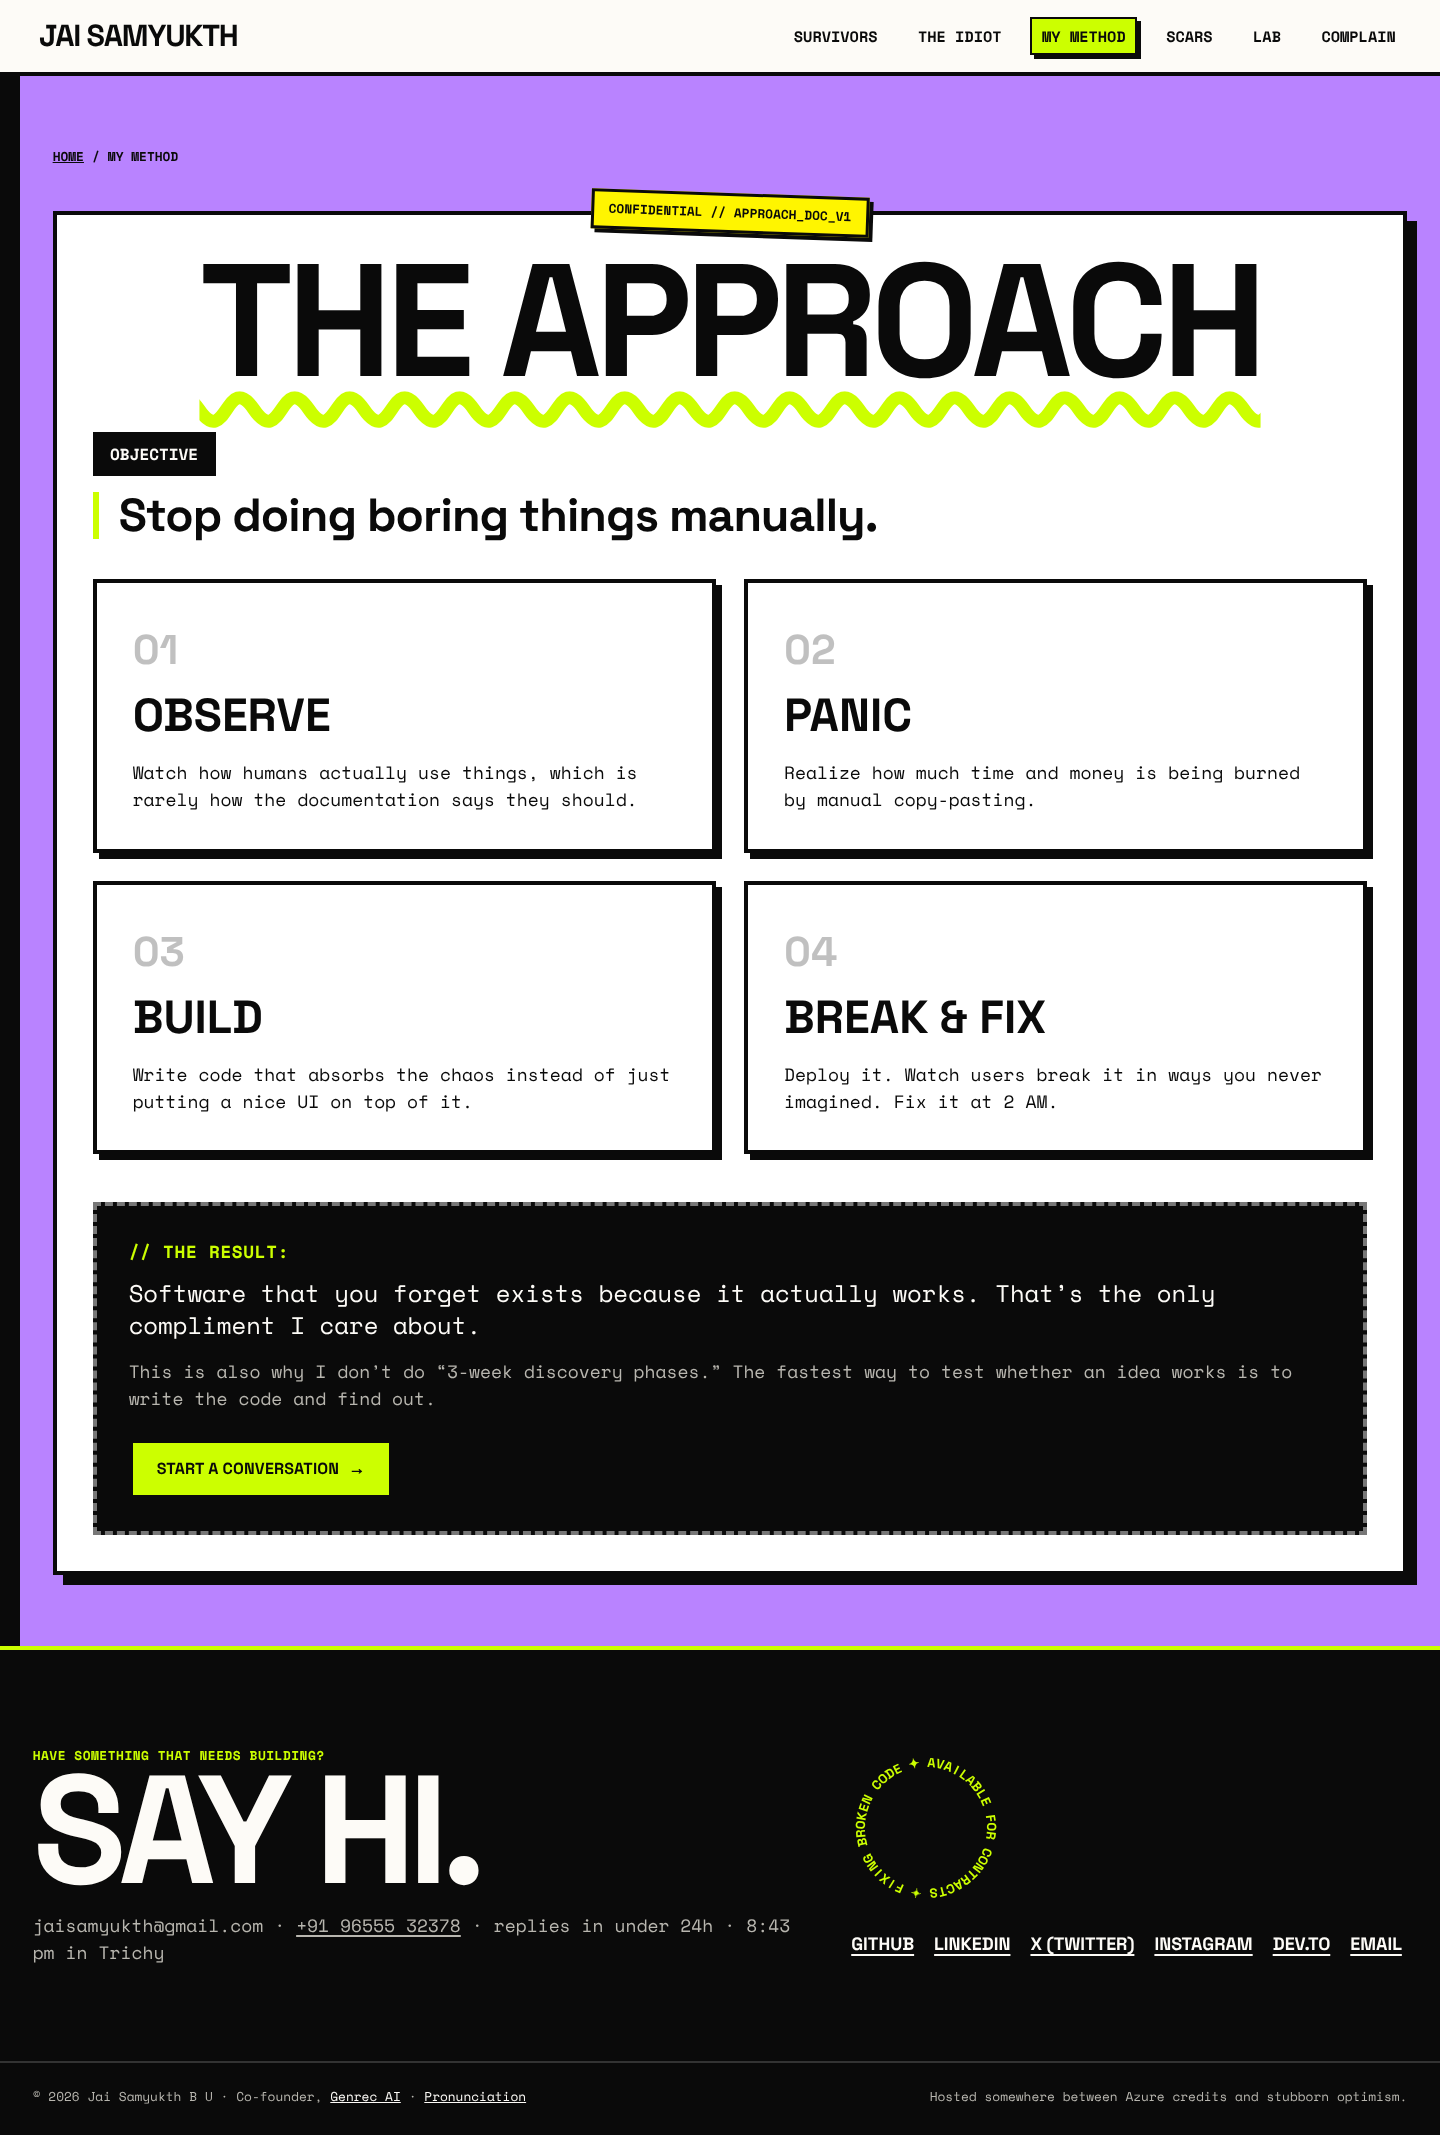
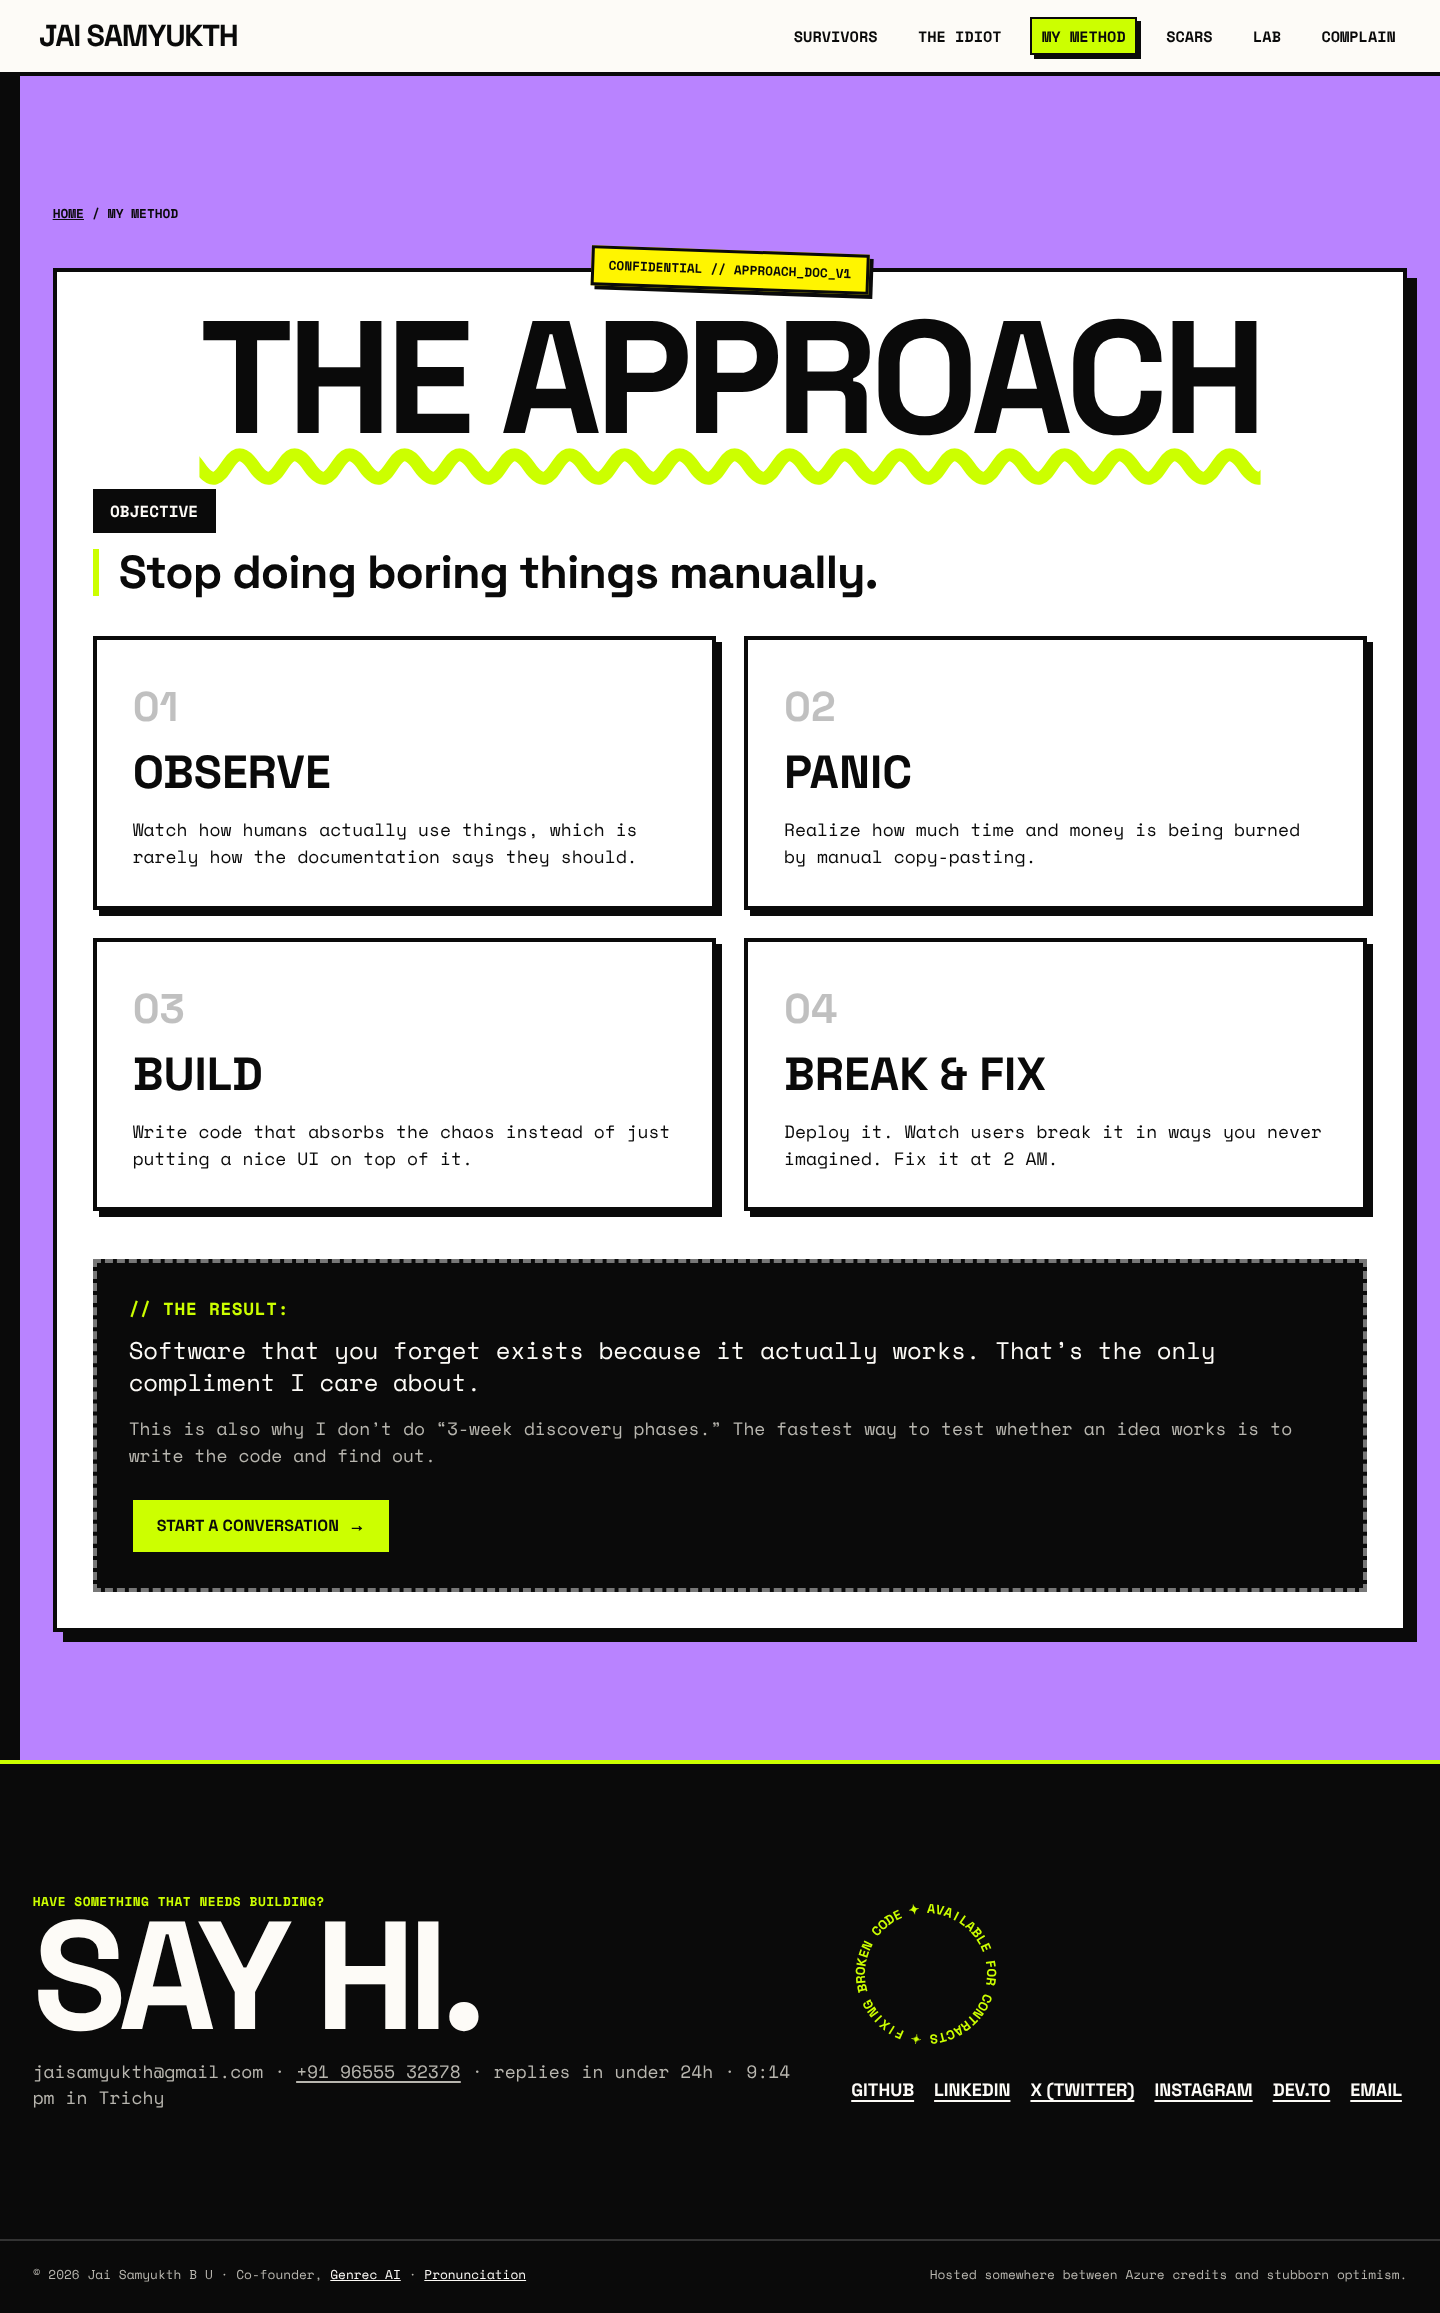
More breathing room across the site
Sections, page headers, the hero and card grids get generous spacing
again (and more than before). The home ticker is one row instead of
two, the manifesto sits in a narrower column, and the About name no
longer slides under the photo.

Claude-Session: https://claude.ai/code/session_01NPRyByUiU6set8yqXnPwka

diff --git a/src/styles/site.css b/src/styles/site.css
@@ -33,8 +33,8 @@ html { scrollbar-color: var(--yellow) var(--ink); }
 
 /* ---------- layout ---------- */
 .wrap { padding-inline: var(--gutter); max-width: 96rem; margin-inline: auto; }
-.section { padding-block: calc(var(--u) * 5); }
-.section--tight { padding-block: calc(var(--u) * 4); }
+.section { padding-block: calc(var(--u) * 9); }
+.section--tight { padding-block: calc(var(--u) * 7); }
 .night { background: var(--ink); color: var(--paper); }
 .bb { border-bottom: var(--b) solid var(--ink); }
 .bt { border-top: var(--b) solid var(--ink); }
@@ -114,13 +114,13 @@ html.menu-open { overflow: hidden; }
 /* ---------- hero ---------- */
 .hero { position: relative; overflow: clip; border-bottom: var(--b) solid var(--ink); }
 .hero__bg { position: absolute; inset: 0; z-index: 0; opacity: 0.55; pointer-events: auto; }
-.hero__grid { position: relative; z-index: 1; display: grid; grid-template-columns: minmax(0, 7fr) minmax(0, 5fr); gap: clamp(2rem, 5vw, 5rem); align-items: center; padding-block: clamp(2rem, 4vw, 3.5rem) clamp(1.75rem, 3vw, 2.5rem); pointer-events: none; }
+.hero__grid { position: relative; z-index: 1; display: grid; grid-template-columns: minmax(0, 7fr) minmax(0, 5fr); gap: clamp(2rem, 5vw, 5rem); align-items: center; padding-block: clamp(3.5rem, 7vw, 7rem) clamp(4rem, 7vw, 7rem); pointer-events: none; }
 .hero__grid > * { pointer-events: auto; }
 .hero__title { font-size: clamp(2.4rem, 1rem + 4.6vw, 5.2rem); line-height: 1.02; font-weight: 700; text-transform: uppercase; letter-spacing: -0.035em; margin-top: 1.5rem; }
 .hero__title .hl--yellow { margin-top: 0.15em; }
-.hero__hi { margin-top: 1.25rem; max-width: 40rem; font-family: var(--f-mono); font-size: var(--t-m); line-height: 1.6; }
-.hero__actions { display: flex; flex-wrap: wrap; gap: 1rem; margin-top: 1.75rem; }
-.hero__status { margin-top: 1.25rem; font-family: var(--f-mono); font-size: var(--t-xs); color: var(--muted); }
+.hero__hi { margin-top: 2rem; max-width: 40rem; font-family: var(--f-mono); font-size: var(--t-m); line-height: 1.6; }
+.hero__actions { display: flex; flex-wrap: wrap; gap: 1.25rem; margin-top: 2.75rem; }
+.hero__status { margin-top: 2rem; font-family: var(--f-mono); font-size: var(--t-xs); color: var(--muted); }
 .hero__status b { color: var(--blue); }
 .hero__photo { position: relative; justify-self: center; width: min(100%, 30rem); }
 .hero__photo-back { position: absolute; inset: 0; translate: 14px -14px; background: var(--acid); border: var(--b) solid var(--ink); z-index: 0; rotate: 3deg; }
@@ -195,7 +195,7 @@ html.menu-open { overflow: hidden; }
 @media (max-width: 900px) { .footer__top { grid-template-columns: 1fr; } }
 
 /* ---------- page heads ---------- */
-.phead { padding-block: clamp(2.25rem, 5vw, 4.25rem) clamp(1.75rem, 3vw, 2.75rem); border-bottom: var(--b) solid var(--ink); }
+.phead { padding-block: clamp(4rem, 9vw, 8rem) clamp(3rem, 6vw, 5rem); border-bottom: var(--b) solid var(--ink); }
 .phead__tag { margin-bottom: 1.25rem; }
 .phead__lede { margin-top: 1.5rem; max-width: 46rem; font-family: var(--f-mono); font-size: var(--t-m); }
 .crumbs { display: flex; gap: 0.5rem; font-family: var(--f-mono); font-size: var(--t-xs); font-weight: 700; text-transform: uppercase; margin-bottom: 1.5rem; }
@@ -296,7 +296,7 @@ button.chip:focus-visible, a.chip:focus-visible { background: var(--acid); color
 .syll .t-xl { display: block; margin-block: 0.5rem; }
 .about-say { min-width: 0; }
 @media (max-width: 767px) { .syll { grid-template-columns: 1fr; } .about-say { grid-column: 1 / -1 !important; } }
-.pagehead { padding-block: clamp(2.25rem, 5vw, 4.25rem) 1.75rem; }
+.pagehead { padding-block: clamp(4rem, 9vw, 8rem) 3rem; }
 .pagehead__lede { margin-top: 1.5rem; max-width: 46rem; font-family: var(--f-mono); font-size: var(--t-m); }
 
 /* ---------- ui-ux-pro-max pre-delivery fixes ---------- */
@@ -373,3 +373,23 @@ a, button, summary, [role='button'] { cursor: pointer; }
 @media (hover: hover) { .case__hero--tilt:hover { rotate: 0deg; box-shadow: 14px 14px 0 var(--ink); } }
 @media (prefers-reduced-motion: reduce) { .case__hero--tilt { rotate: none; } }
 
+
+/* ---------- breathing room ---------- */
+.hero__name { padding-block: clamp(1.5rem, 3.5vw, 3.5rem); }
+.band { padding-block: clamp(1.1rem, 2vw, 1.75rem); }
+.statement .wrap { max-width: 64rem; }
+.statement .scroll-reveal-text { font-size: clamp(1.5rem, 0.9rem + 2vw, 2.6rem) !important; line-height: 1.2; }
+.shead { margin-bottom: clamp(2.5rem, 5vw, 4rem); }
+.stats, .how, .lists { gap: clamp(1.5rem, 3vw, 2.75rem); }
+.case__cols, .case__gallery, .about-grid { gap: clamp(2rem, 4vw, 3.5rem); }
+.case__cols + .case__cols { margin-top: clamp(2rem, 4vw, 3.5rem); }
+.stack-gap > * + * { margin-top: clamp(1.5rem, 3vw, 2.5rem); }
+.timeline { gap: 2.25rem; }
+.skills { gap: 1.25rem; }
+.faq details { margin-bottom: 1.25rem; }
+.lessons { gap: 1.1rem; }
+.work-cards { gap: clamp(3rem, 6vw, 5rem); }
+.footer__top { padding-block: clamp(4rem, 9vw, 8rem); }
+.case-cover { padding-top: calc(var(--u) * 6); }
+/* About header: the name stays inside its column instead of sliding under the photo. */
+@media (min-width: 901px) { .phead .about-grid .t-mega { font-size: clamp(3.5rem, 0.5rem + 5.6vw, 6.5rem); } }

diff --git a/src/pages/Home.tsx b/src/pages/Home.tsx
@@ -2,7 +2,7 @@ import React from 'react';
 import { Link } from 'react-router-dom';
 import { Hero } from '../components/Hero';
 import { WorkIndex } from '../components/WorkIndex';
-import { howItGoes, obsessions, services, stats, testimonial, tickerLines, trackRecord } from '../data/content';
+import { howItGoes, obsessions, services, stats, testimonial, tickerLines } from '../data/content';
 import ScrollVelocity from '../components/rb/ScrollVelocity';
 import ScrollReveal from '../components/rb/ScrollReveal';
 import CountUp from '../components/rb/CountUp';
@@ -15,7 +15,7 @@ export function Home() {
 
       <section aria-label="Currently taking on" className="band bg-yellow">
         <ScrollVelocity
-          texts={[`Currently taking on → ${tickerLines.join(' → ')} ✦`, `${trackRecord[3]} ✦ No 30-page proposals ✦`]}
+          texts={[`Currently taking on → ${tickerLines.join(' → ')} ✦`]}
           velocity={60}
           fontSize="clamp(1.4rem, 3.4vw, 3rem)"
           fontWeight={700}
